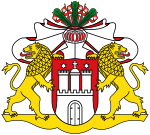
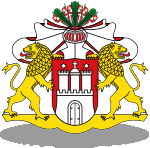
Pin shadow

diff --git a/pin_maps/draw/Pin.py b/pin_maps/draw/Pin.py
@@ -68,13 +68,13 @@ class Pin:
         img_data = io.BytesIO(img_reply.content)
         heraldry = Image.open(img_data)
         heraldry = self.__flood_delete_background(heraldry)
+        heraldry = self.__add_shadow(heraldry)
         heraldry.save(os.path.join(self.__pin_cache_path, location_name.lower() + '-pin.png')) # Caching
 
         return heraldry
 
 
-    def __get_heraldry_cached(self, location_name: str) -> Image.Image:
-        
+    def __get_heraldry_cached(self, location_name: str) -> Image.Image:        
         cached_pins = os.listdir(self.__pin_cache_path)
         filename = f'{location_name.lower()}.png'
         if filename not in cached_pins:
@@ -99,8 +99,20 @@ class Pin:
 
     
     @staticmethod
-    def __add_shadow(heraldry: Image.Image) -> Image.Image:
-        pass
+    def __add_shadow(heraldry: Image.Image, height_change: float = 1.1, ell_start: float = 0.9) -> Image.Image:
+        heraldry.convert('RGBA')
+        orig_width, orig_height = heraldry.size
+
+        new_height = int(height_change * orig_height)
+        ell_img = Image.new('RGBA', (orig_width, new_height))
+        draw = ImageDraw.Draw(ell_img)
+
+        top_left = (0, int(ell_start * orig_height))
+        bot_right = (orig_width - 1, new_height - 1)
+        draw.ellipse((*top_left, *bot_right), fill = (0, 0, 0, 100))
+        ell_img.paste(heraldry, (0, 0), heraldry)
+
+        return ell_img
 
 
     def __str__(self):
